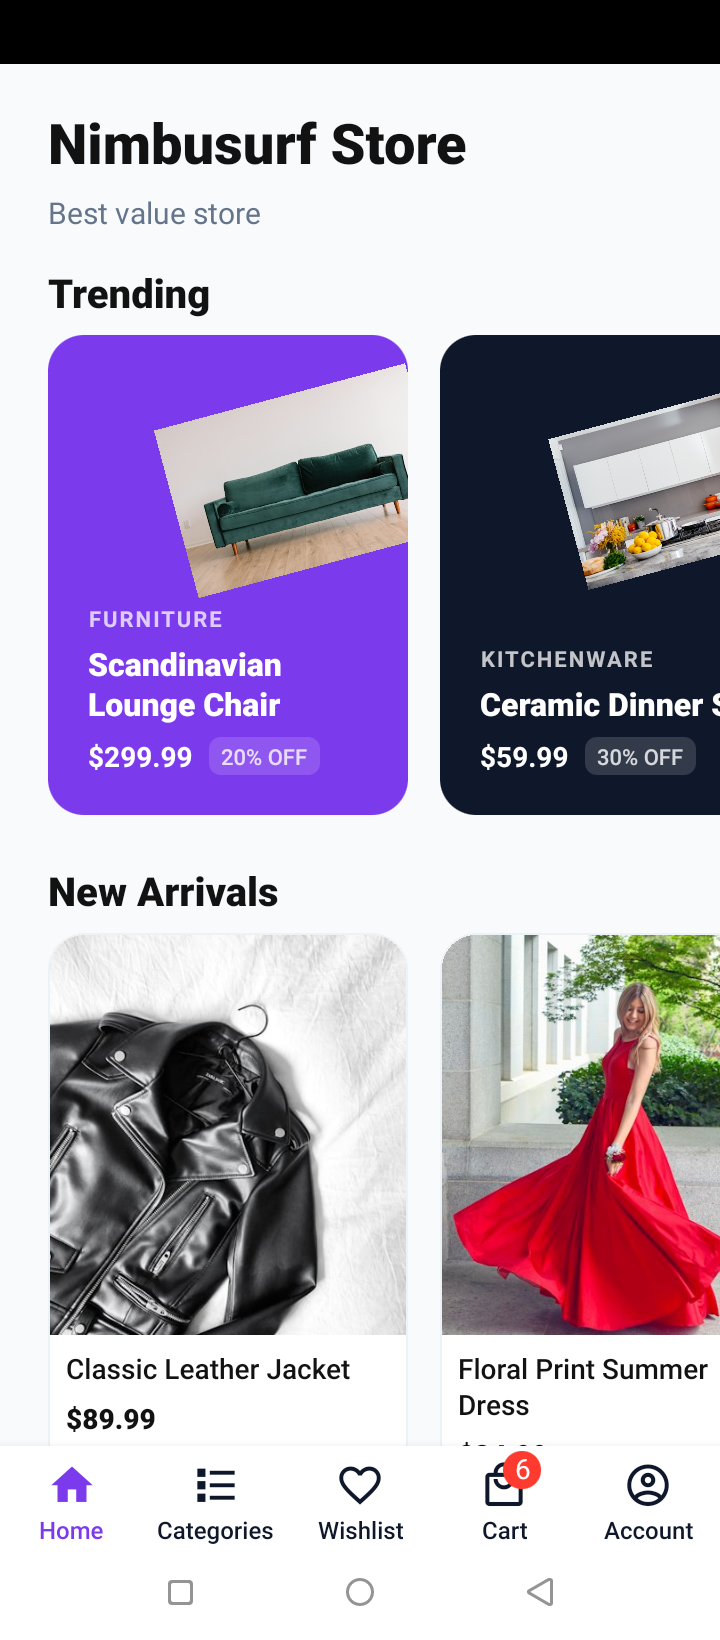
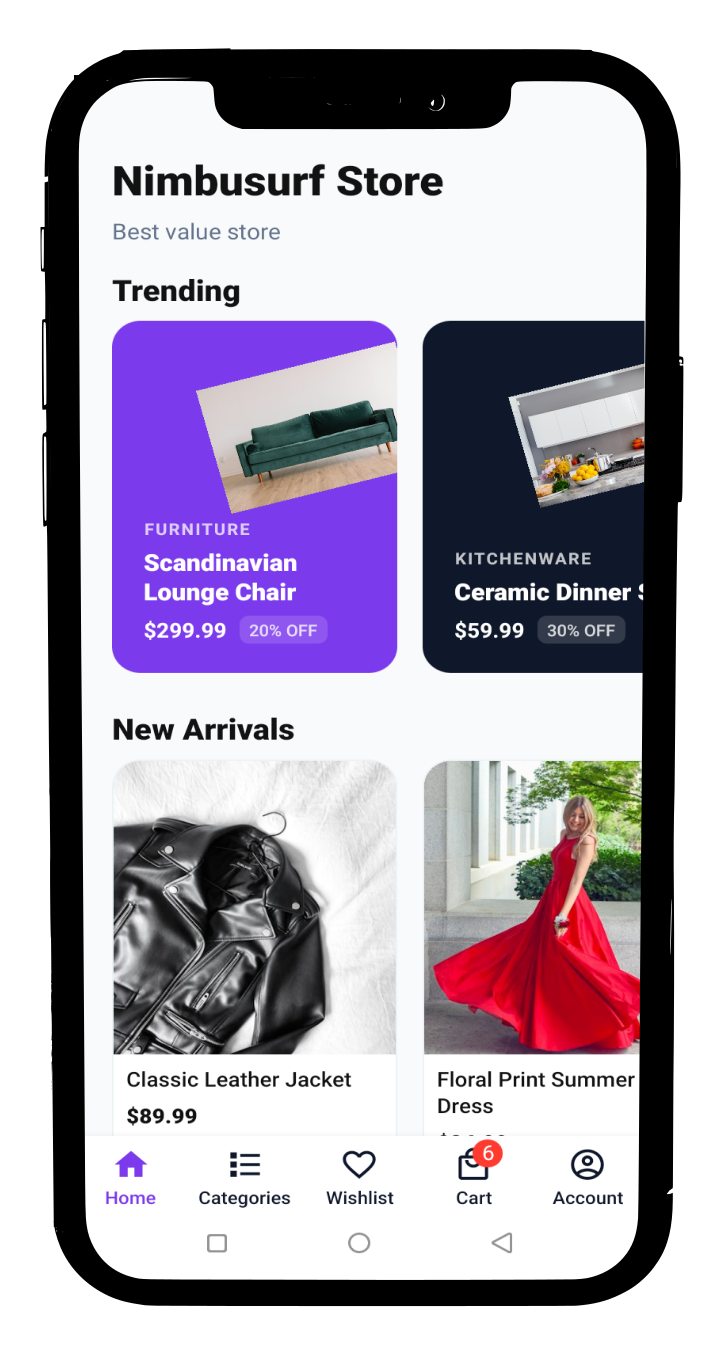
updated the readme

diff --git a/README.md b/README.md
@@ -5,9 +5,9 @@ A clean, modern e-commerce mobile app built with React Native and Expo. Browse p
 <p align="center">
   <img src="screenshots/screenshot-1.png" width="220" alt="Home Screen" />
   &nbsp;&nbsp;&nbsp;&nbsp;&nbsp;&nbsp;
-  <img src="screenshots/screenshot-2.png" width="220" alt="Product Detail" />
+  <img src="screenshots/screenshot-2.png" width="220" alt="Catergories" />
   &nbsp;&nbsp;&nbsp;&nbsp;&nbsp;&nbsp;
-  <img src="screenshots/screenshot-3.png" width="220" alt="Cart Screen" />
+  <img src="screenshots/screenshot-3.png" width="220" alt="Product Detail" />
 </p>
 
 ---
